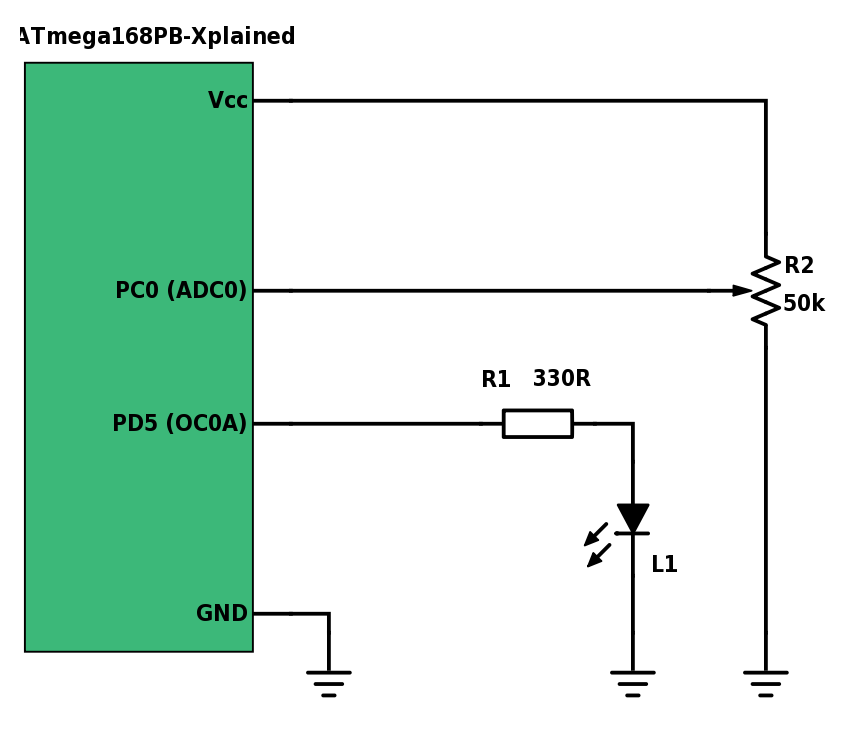
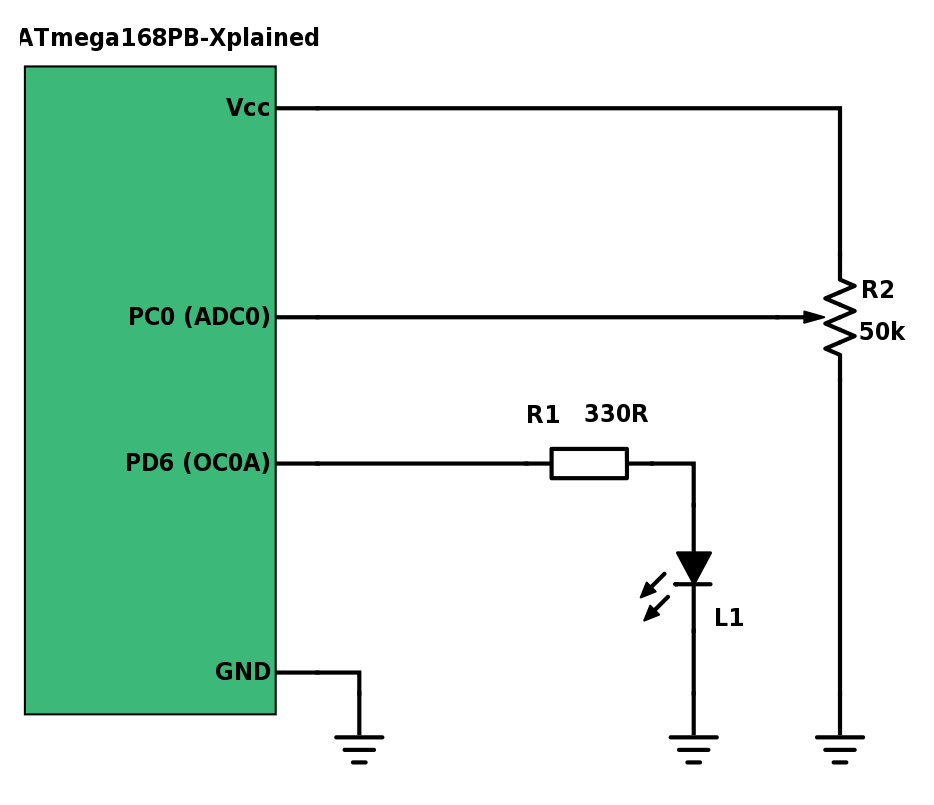
fix(hw-PWM): OC0A pin, typos

Changed region(s): [[0.0, 0.03, 0.9788, 0.9604]]

diff --git a/workshop/hardware/PWM/README.md b/workshop/hardware/PWM/README.md
@@ -1,5 +1,5 @@
 # PWM
-*Learn how to use the timer peripher af the ATmega168PB to generate PWM signals*
+*Learn how to use the timer peripheral of the ATmega168PB to generate PWM signals*
 
 ## Objectives
 - know how to use the timer peripherals as PWM generators
@@ -25,7 +25,12 @@
 ## Material Review
 
 ### PWM
--
+- What is it
+- Why is it useful
+- Duty cycle
+    - usually measured in %
+    - ton/T
+- Changing the average of the output
 
 ### PWM in AVR MCUs
 - Timers can generate PWM signals
@@ -93,14 +98,13 @@ Exercise steps:
 - Create a new AtmelStudio project
 - Create the PWM related functions, definitions, variables etc. in a separate .c and .h file! This is necessary, because later on we will add more files to the project!
 - Write a function which initializes the TC0 timer in Fast PWM mode
-- Write a function which sets the duty cycle (0-100) of PWM signal on the OC0A pin
-    - The function shuld have one uint8_t parameter which value is between 0-100
+- Write a function which sets the duty cycle (0-100) of the PWM signal on the OC0A pin
+    - The function should have one uint8_t parameter which value is between 0-100
 - Try out the init function and the duty cycle setter function
     - You should change the light intensity of the LED
 
 ### Dimming a LED with a potentiometer
-The goal is to change the LED's light intensity based on the potentiometer's voltage
-level.
+The goal is to change the LED's light intensity based on the potentiometer's voltage level.
 
 At first add a potentiometer to the previous circuit.
 
